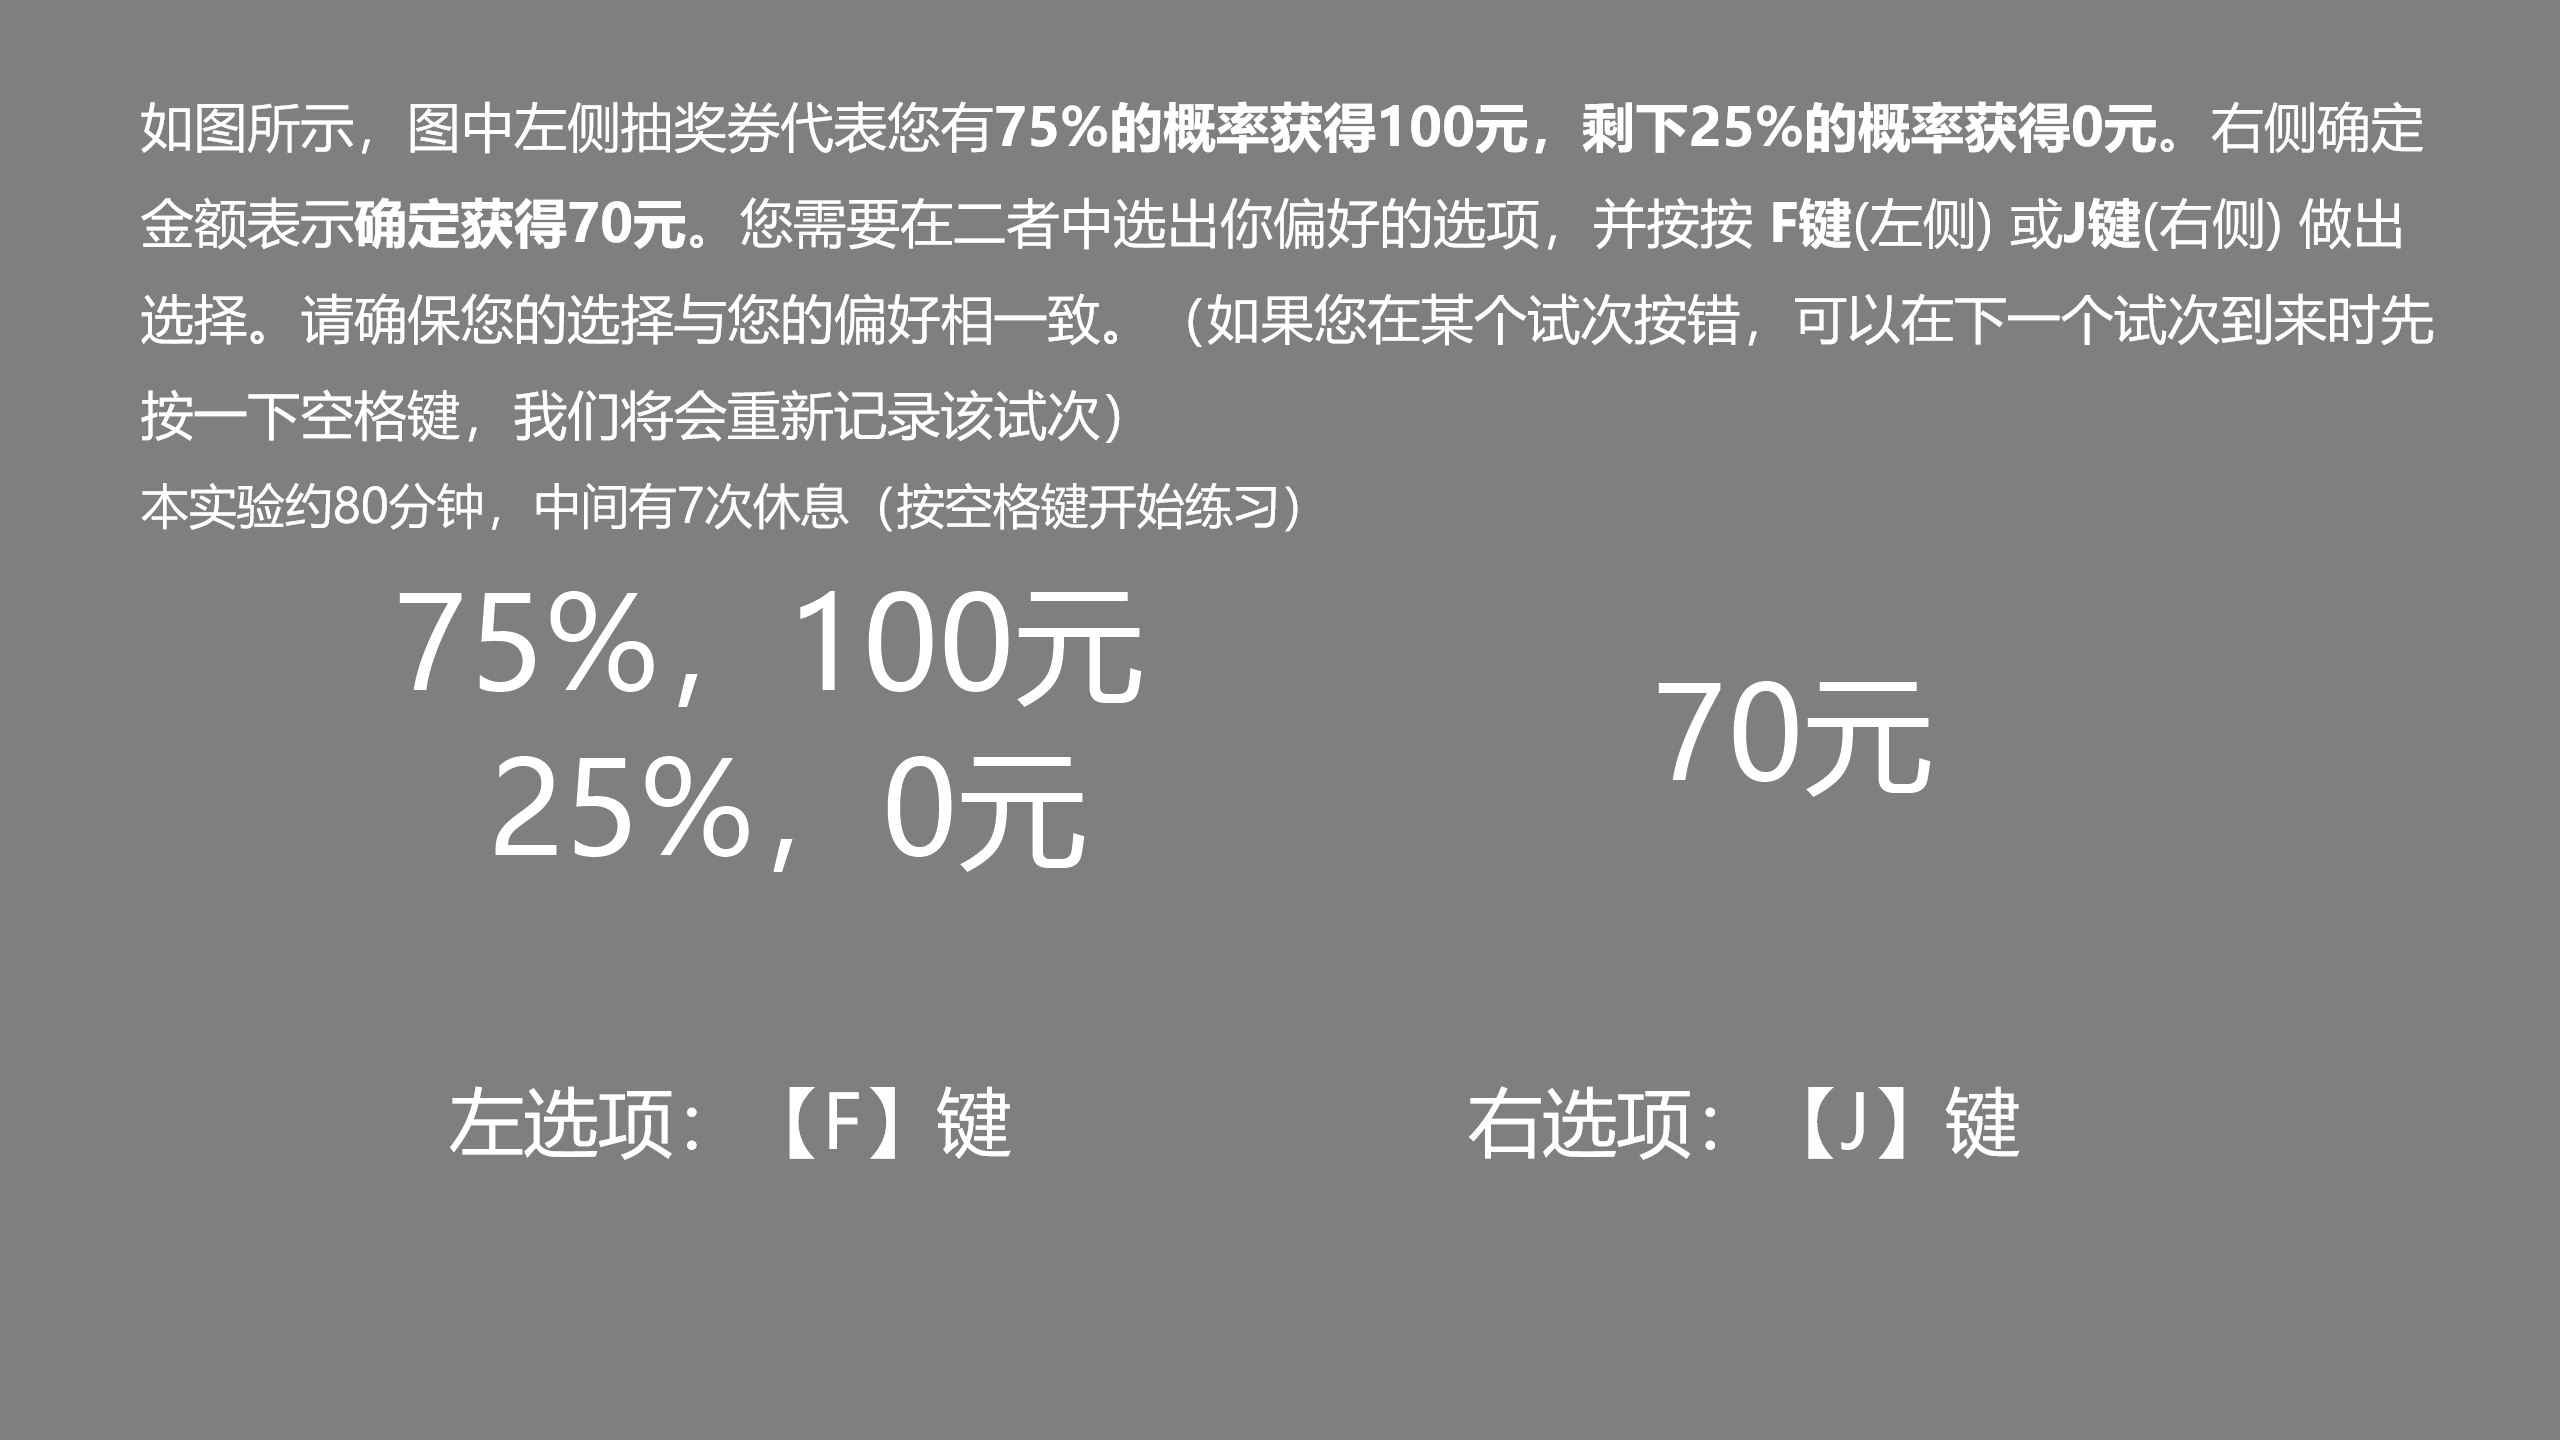
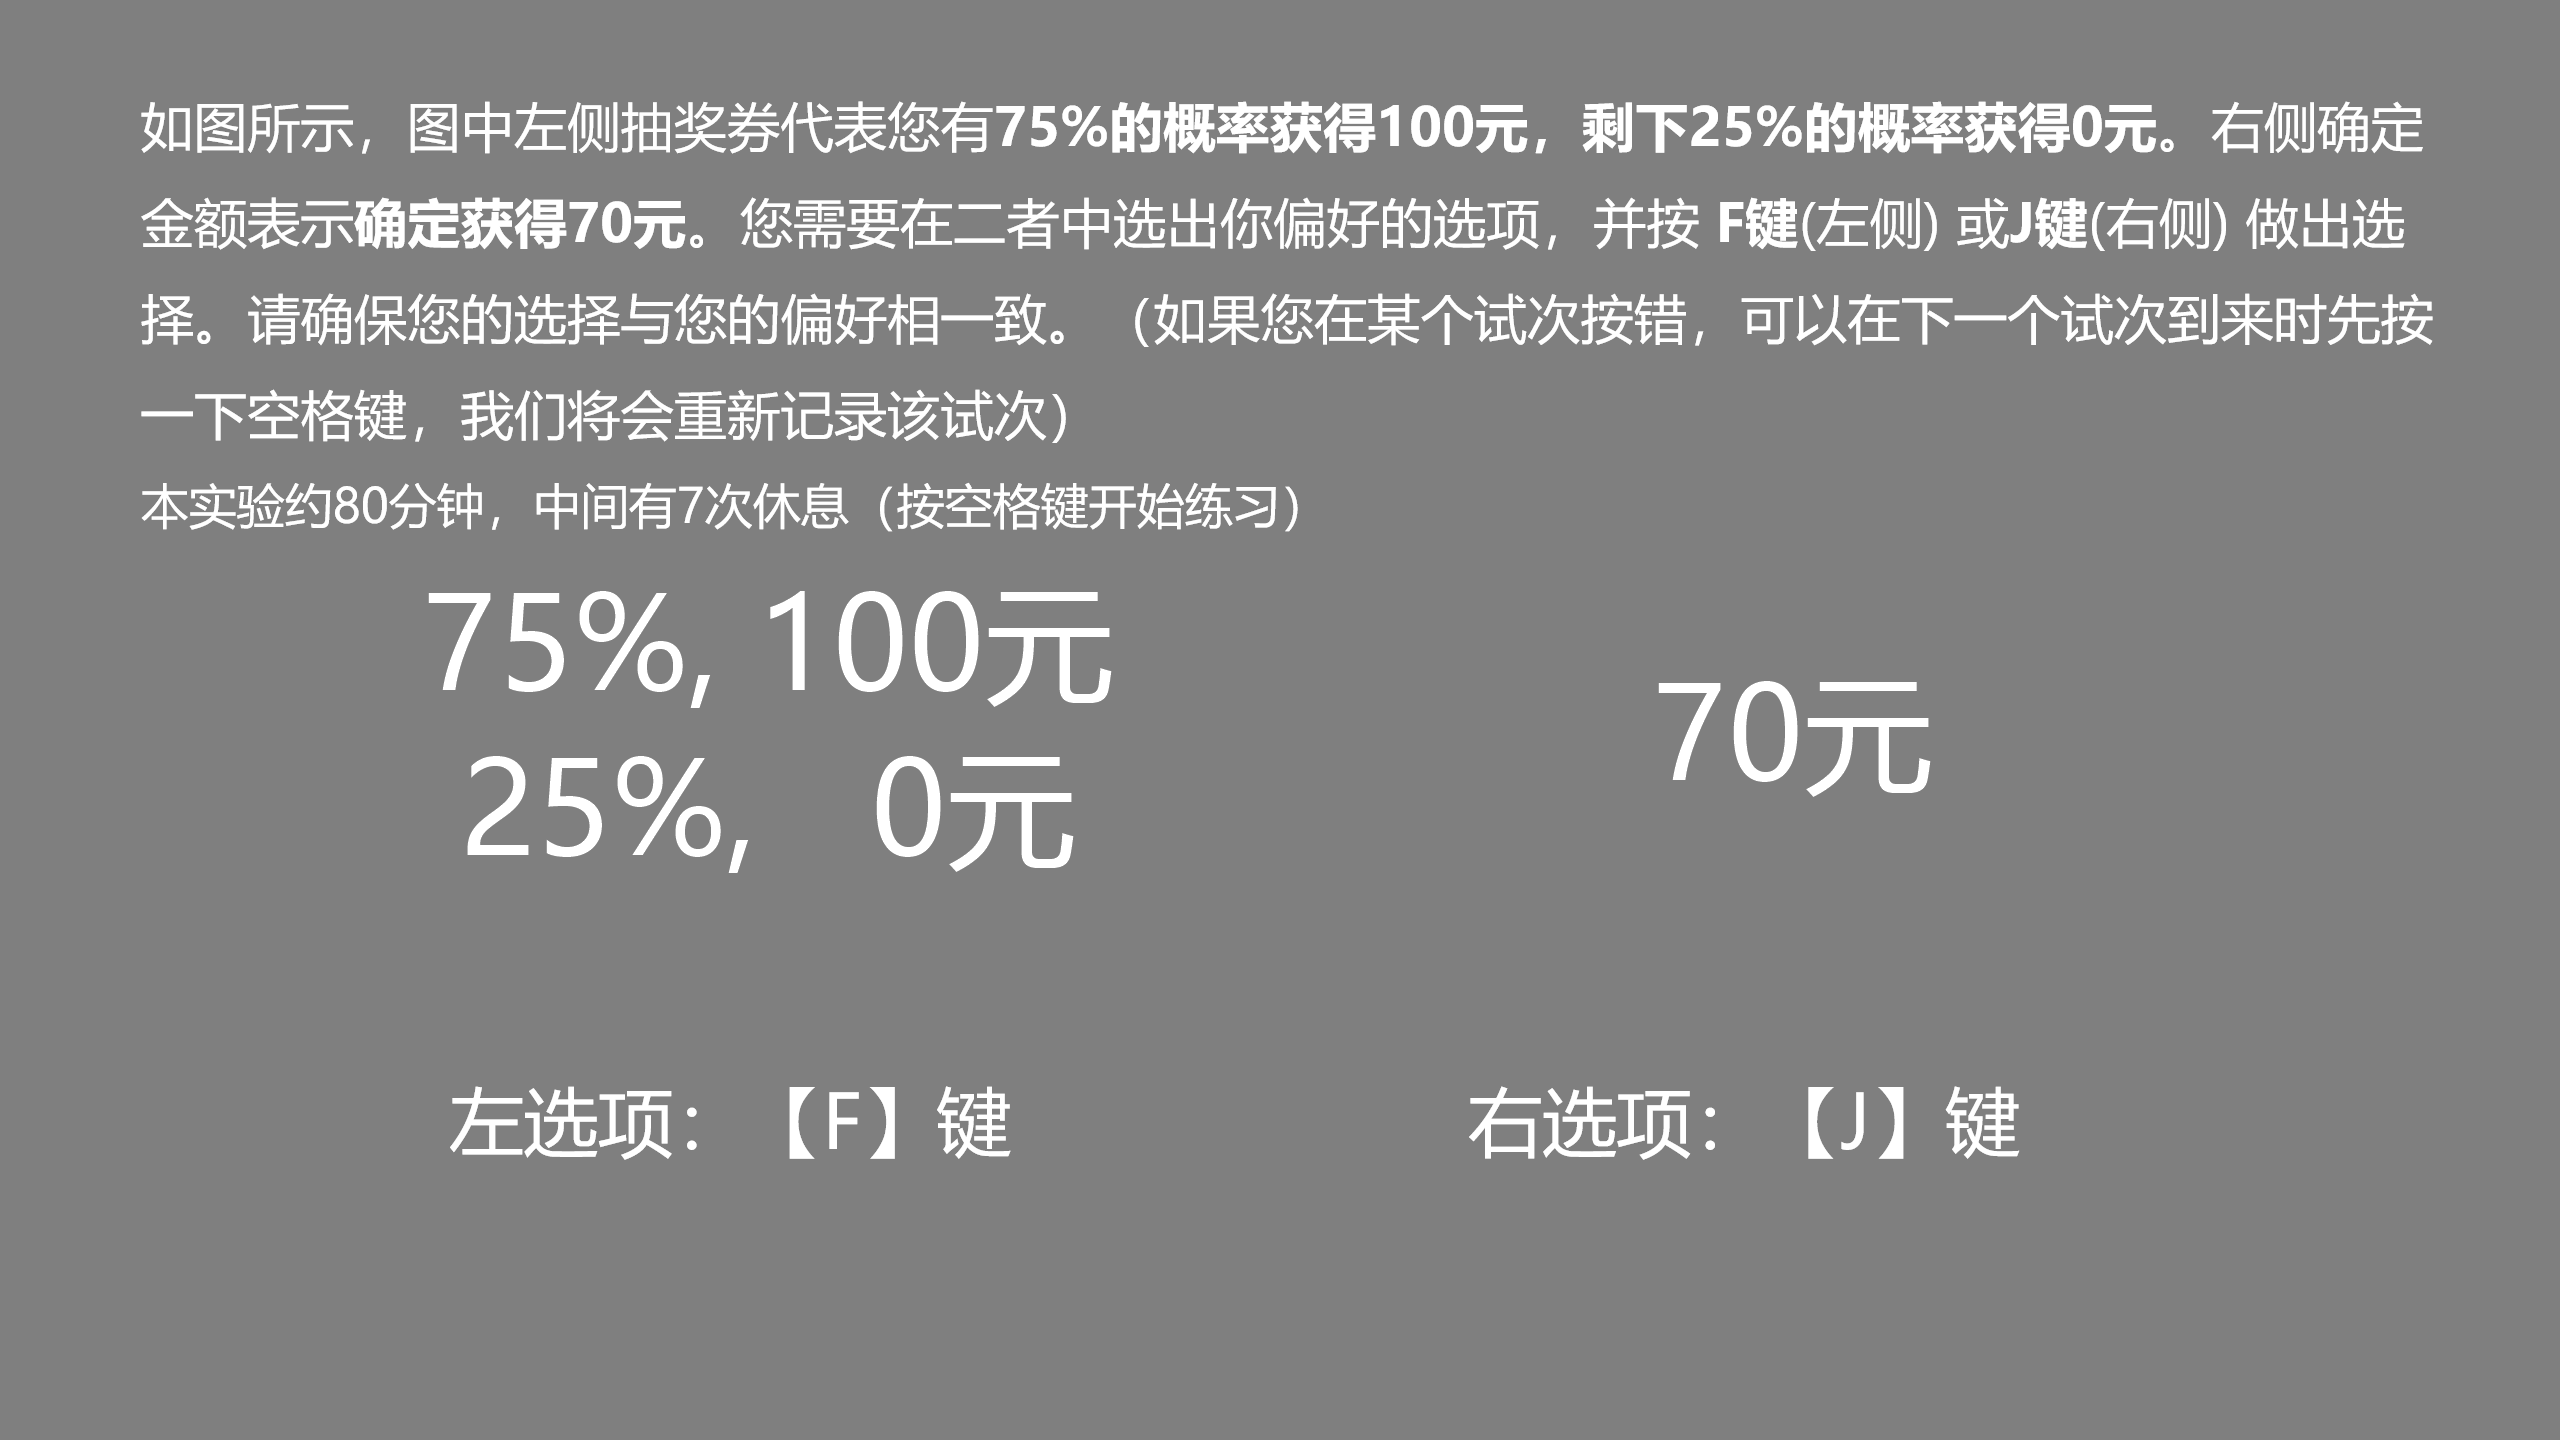
修改刺激呈现细节

Changed region(s): [[0.0625, 0.125, 0.9688, 0.3125], [0.1562, 0.4062, 0.4375, 0.625], [0.3438, 0.5312, 0.4375, 0.625]]

diff --git a/trial_func.py b/trial_func.py
@@ -37,7 +37,10 @@ def trial(i, win, df, clk, txt):
     }
     loc = [-1,1]
     np.random.shuffle(loc)
-    txt.text = "%s%%，%s元 \n %s%%，%s元" % (int(100 * p), int(x), 100 - int(100 * p), int(y))
+    #txt.text = "%s%%，%s元 \n %s%%，%s元" % (int(100 * p), int(x), 100 - int(100 * p), int(y))
+    txt.text = '{:>2d}%, {:>3d}元\n{:>2d}%, {:>3d}元'.format(int(100 * p), int(x), 100 - int(100 * p), int(y))
+
+    # txt.text = "%s%%，%s元" % (int(100 * p), int(x))
     txt.pos = (0.2*loc[0]*w, 0)
     txt.draw()
     if sure-int(sure)!= 0:
@@ -66,7 +69,9 @@ def trial(i, win, df, clk, txt):
         txt.draw()
         win.flip()
         core.wait(0.5)
-        txt.text = "%s%%，%s元 \n %s%%，%s元" % (int(100 * p), int(x), 100 - int(100 * p), int(y))
+        # txt.text = "%s%%，%s元 \n %s%%，%s元" % (int(100 * p), int(x), 100 - int(100 * p), int(y))
+        txt.text = '{:>2d}%, {:>3d}元\n{:>2d}%, {:>3d}元'.format(int(100 * p), int(x), 100 - int(100 * p), int(y))
+        # txt.text = "%s%%，%s元" % (int(100 * p), int(x))
         txt.pos = (0.2 * loc[0] * w, 0)
         txt.draw()
         txt.text = "%s元" % sure_t
